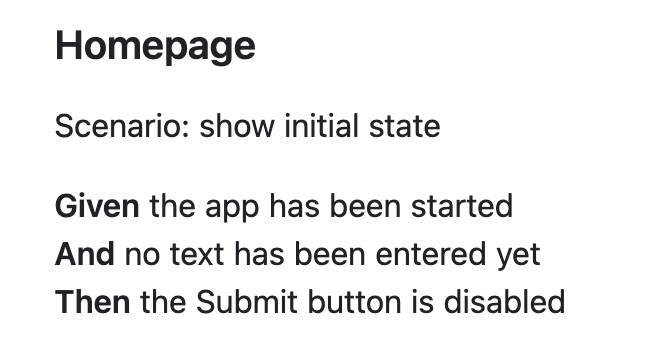
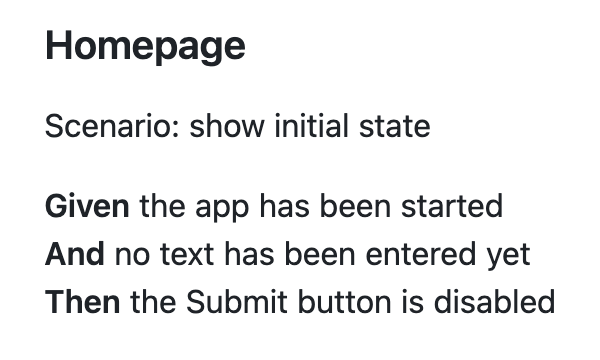
Update image dimensions

Changed region(s): [[0.06, 0.5294, 0.93, 0.9412], [0.06, 0.2941, 0.72, 0.4118], [0.06, 0.0882, 0.42, 0.2059]]

diff --git a/README.md b/README.md
@@ -25,13 +25,13 @@ Key features
 
 The tool allows reverse engineering of existing code into specification documents:
 
-| <img src="./docs/600x400.svg" width="30%" /> | <img src="./docs/600x400.svg" width="30%" /> | <img src="./docs/spec.png" width="30%" /> |
+| <img src="./docs/300x180.svg" /> | <img src="./docs/300x180.svg" /> | <img src="./docs/spec.png" /> |
 | --- | --- | --- |
 | Existing code → | Feature files → | Specification |
 
 This is done to explore the possibility of specification-driven development based on Gherkin scenarios:
 
-| <img src="./docs/spec.png" width="30%" /> | <img src="./docs/600x400.svg" width="30%" /> | <img src="./docs/600x400.svg" width="30%" /> |
+| <img src="./docs/spec.png" width="30%" /> | <img src="./docs/300x180.svg" width="30%" /> | <img src="./docs/300x180.svg" width="30%" /> |
 | --- | --- | --- |
 | Specification →  | Test definition → | Generated code |
 